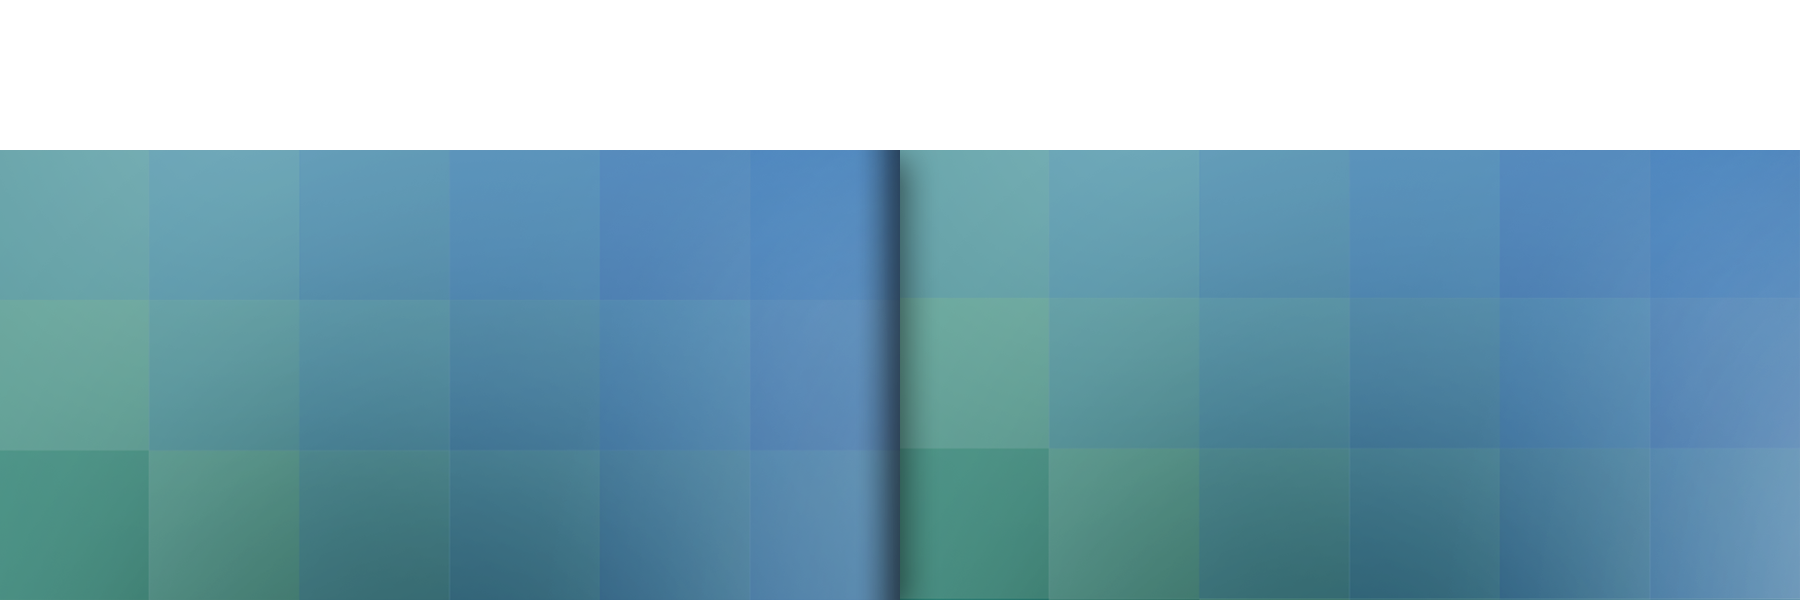
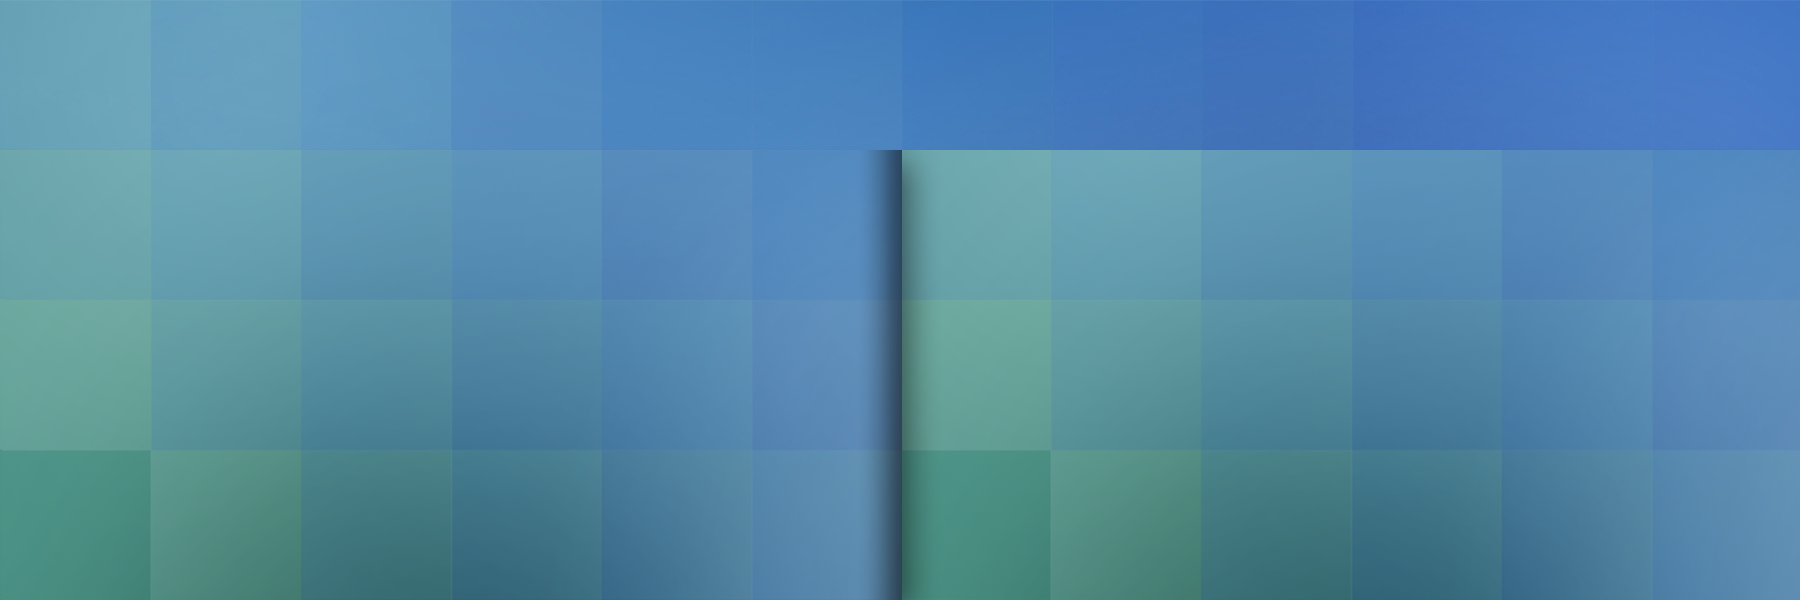
change of header background-image

Changed region(s): [[0.0, 0.0, 1.0, 0.27], [0.4978, 0.99, 0.5911, 1.0]]

diff --git a/src/scss/_banner-subpage.scss b/src/scss/_banner-subpage.scss
@@ -2,7 +2,7 @@
   max-height: 600px;
   height: 100%;
   width: 100%;
-  background: url(assets/images/banner-subpage-bg.jpg) top center no-repeat;
+  background: url(assets/images/banner-subpage-bg.png) top center no-repeat;
   background-size: 1800px 600px;
   padding-top: 150px;
 }

diff --git a/src/scss/_logo.scss b/src/scss/_logo.scss
@@ -3,7 +3,8 @@
 \* ------------------------------------------------------------ */
 
 .logo {
-	display: block; 
+	display: block;
+	padding-left: 15px;
 }
 
 @media( max-width: 767px ) {
@@ -11,6 +12,7 @@
 		i {
 			width: 142px; 
 			height: 40px;
+			margin-left: -8px;
 		}
 	}
 }
